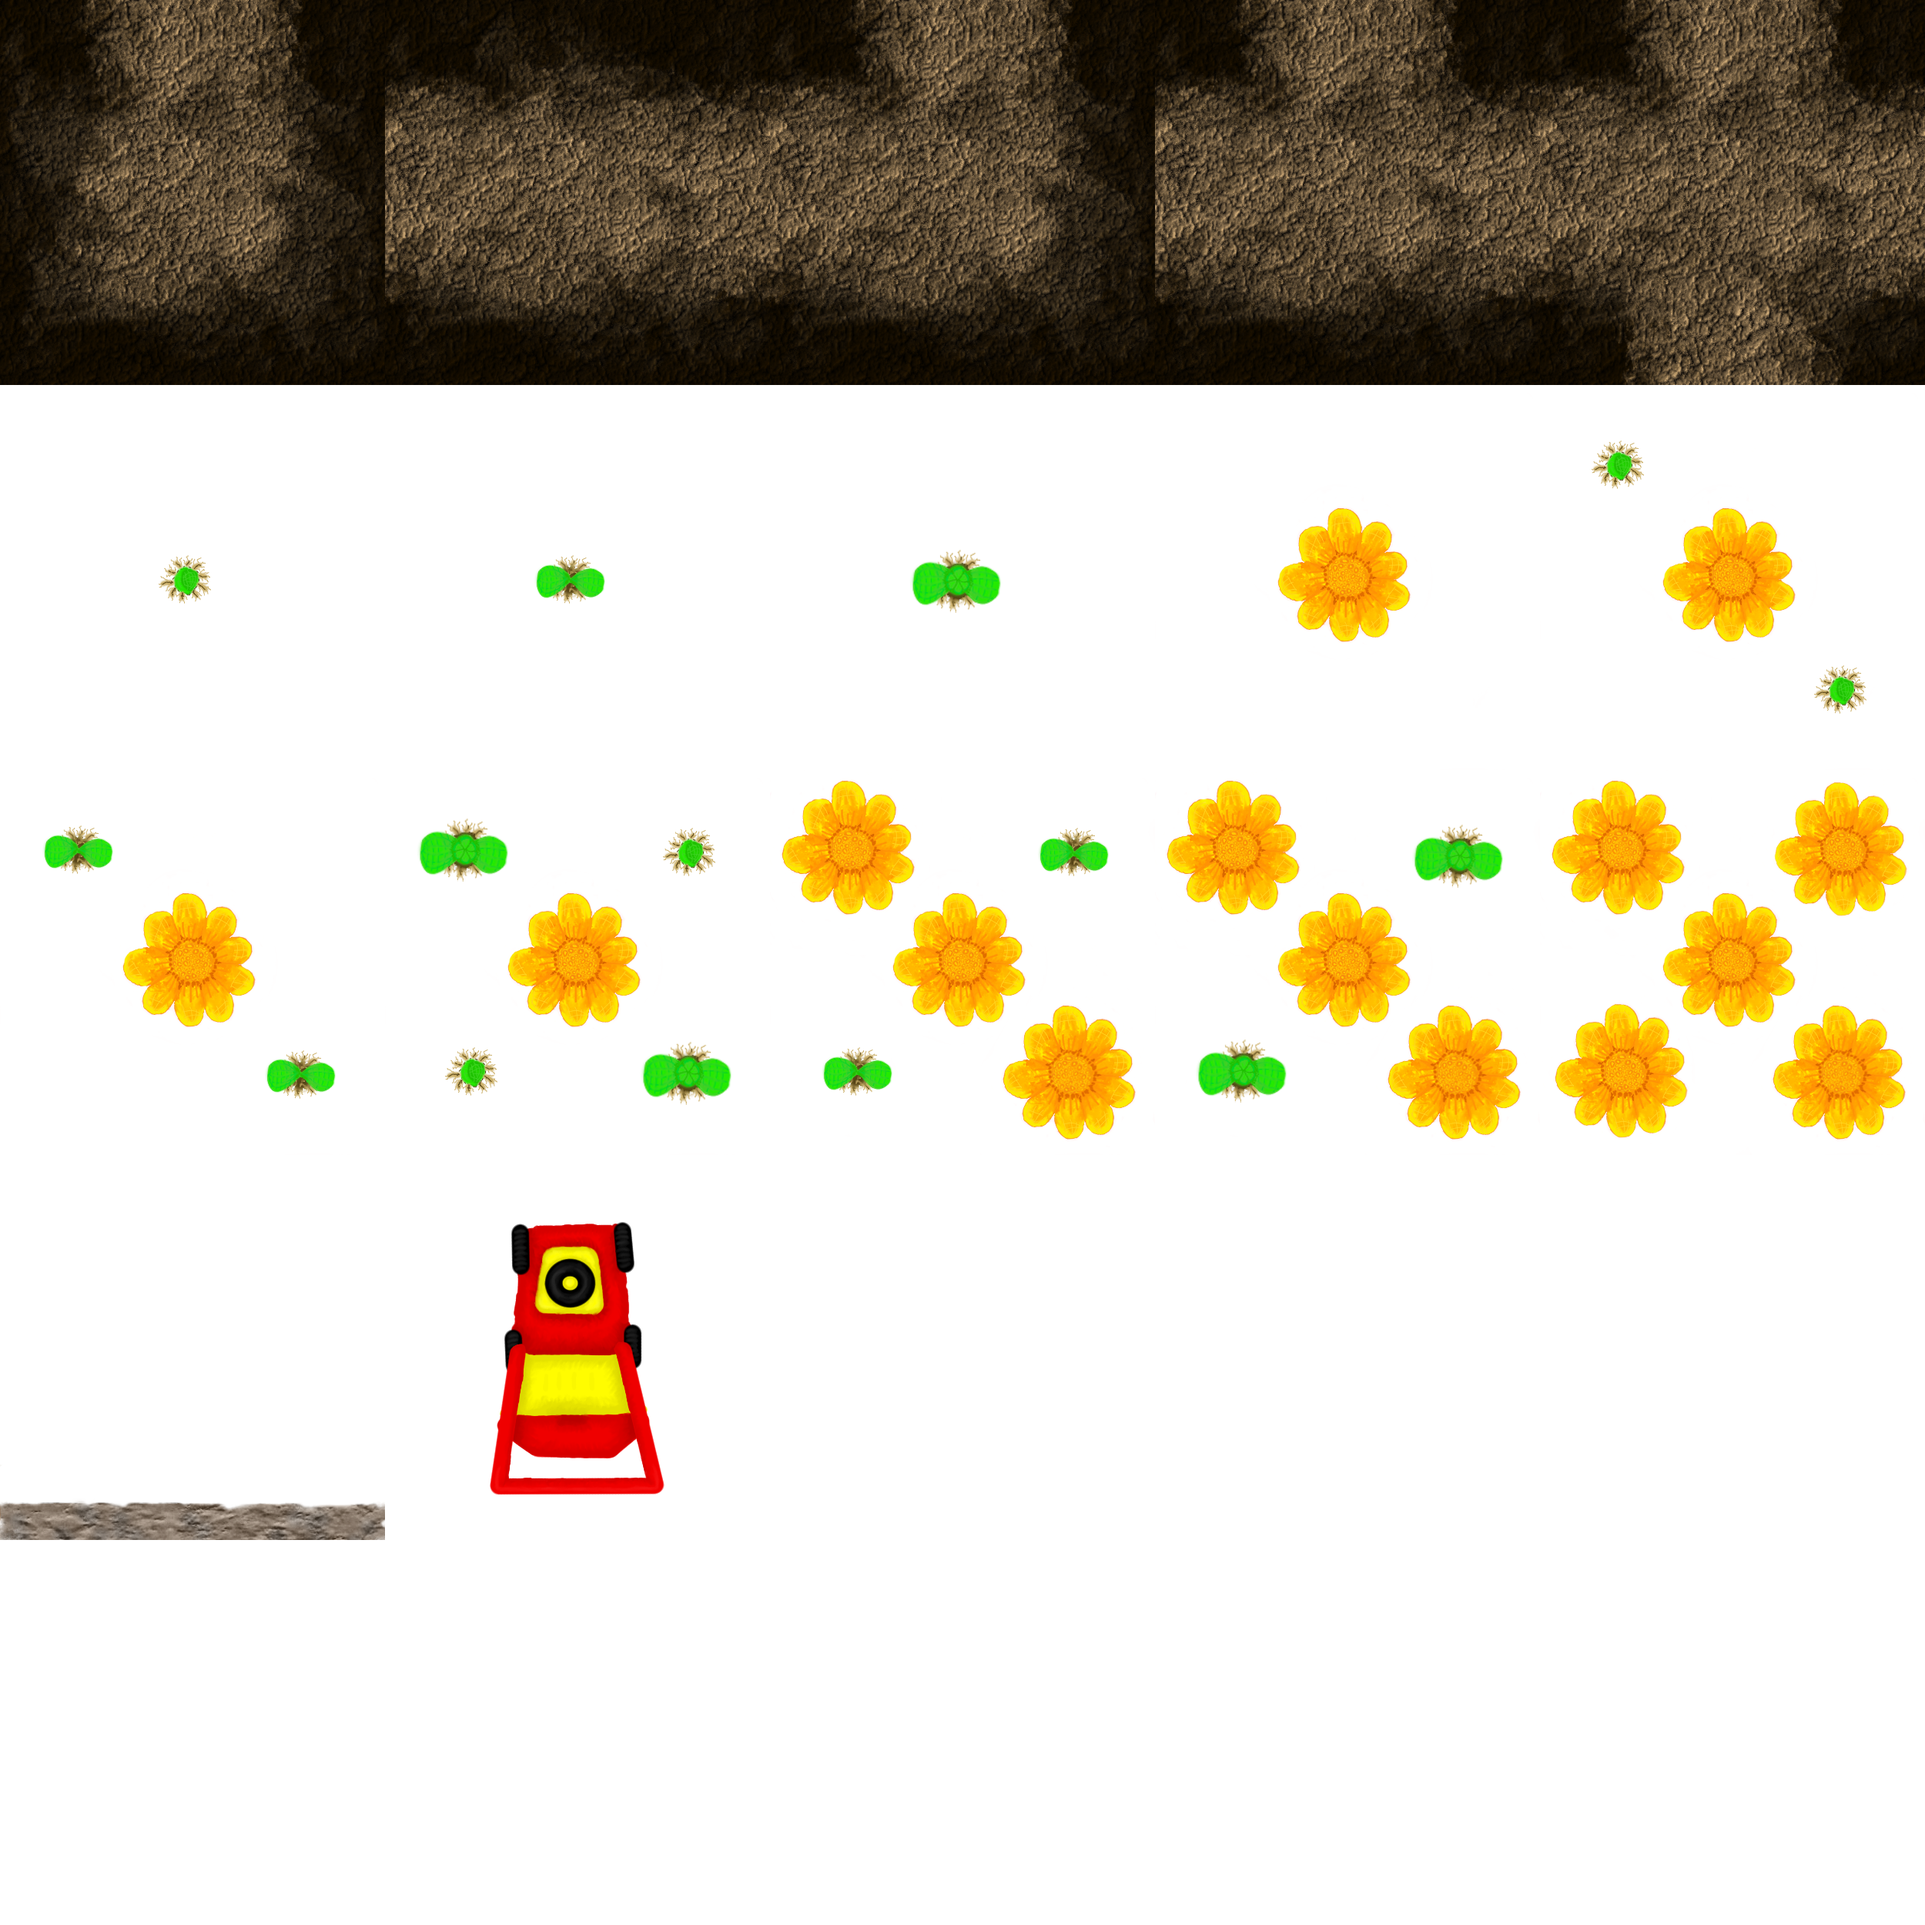
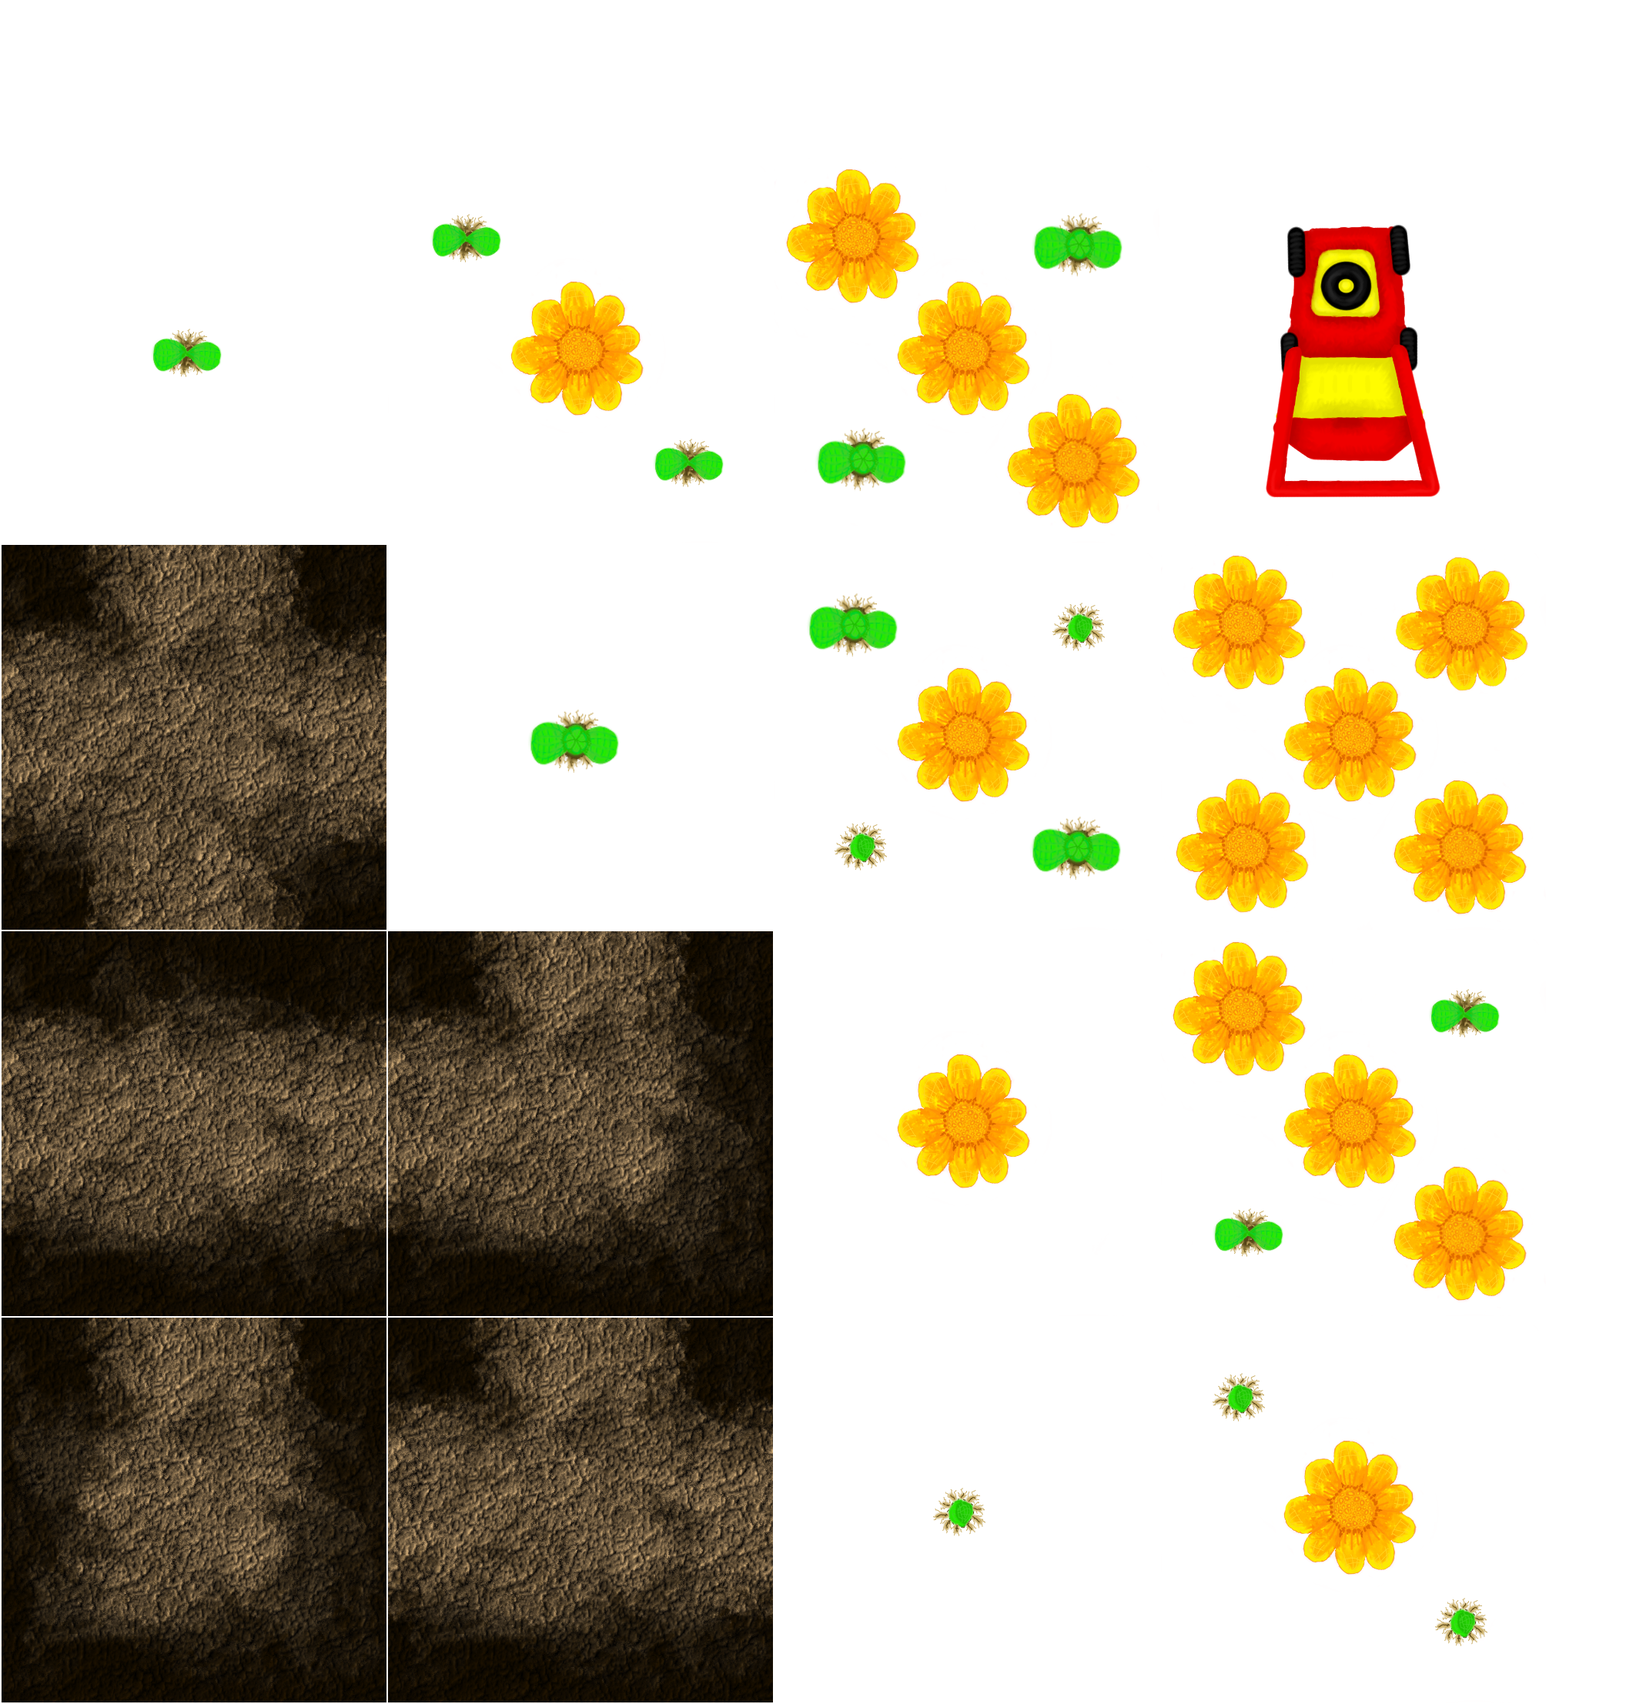
Einbau der neuen Texturen und vorübergehende Fehlerbehebung
git-svn-id: https://dev.se.uni-hannover.de/svn/shared/LV/swp1516/roboter-labyrinth2@311 8fccc7c9-0077-40ea-a901-f51b848cf750

diff --git a/Visualization/trunk/Visualization/src/de/unihannover/swp2015/robots2/visual/resource/ResourceHandler.java b/Visualization/trunk/Visualization/src/de/unihannover/swp2015/robots2/visual/resource/ResourceHandler.java
@@ -60,33 +60,62 @@ public class ResourceHandler implements IResourceHandler {
 	}
 	
 	private void createRegions() {
-		final TextureRegion someRegion = texAtlas.findRegion("simplistic_textures_map");
-		this.texMap.put(ResConst.DEFAULT_FIELD, someRegion);
+		final TextureRegion someRegion = texAtlas.findRegion("tiles_default_theme");
+		final TextureRegion noWay = texAtlas.findRegion("wall_test");
+		this.texMap.put(ResConst.DEFAULT_FIELD, noWay);
 		
-		final TextureRegion wallHRegion = texAtlas.findRegion("wall_h");
-		this.texMap.put(ResConst.DEFAULT_WALL_H, wallHRegion);
+		final TextureRegion wall = texAtlas.findRegion("wall_tiled");
+		this.texMap.put(ResConst.DEFAULT_WALL_H, wall);
+		this.texMap.put(ResConst.DEFAULT_WALL_V, wall);
 		
 		final TextureRegion wallVRegion = texAtlas.findRegion("wall_v");
-		this.texMap.put(ResConst.DEFAULT_WALL_V, wallVRegion);
 		this.texMap.put(ResConst.DEFAULT_BUBBLE, wallVRegion);
 		
-		final TextureRegion circle = texAtlas.findRegion("circle");
-		this.texMap.put(ResConst.DEFAULT_ROBO_EAST, circle);
-		this.texMap.put(ResConst.DEFAULT_ROBO_NORTH, circle);
-		this.texMap.put(ResConst.DEFAULT_ROBO_WEST, circle);
-		this.texMap.put(ResConst.DEFAULT_ROBO_SOUTH, circle);
-		this.texMap.put(ResConst.DEFAULT_RES_0, circle);
-		this.texMap.put(ResConst.DEFAULT_RES_1, circle);
-		this.texMap.put(ResConst.DEFAULT_RES_2, circle);
-		this.texMap.put(ResConst.DEFAULT_RES_3, circle);
-		this.texMap.put(ResConst.DEFAULT_RES_4, circle);
-		this.texMap.put(ResConst.DEFAULT_RES_5, circle);
-		this.texMap.put(ResConst.DEFAULT_RES_6, circle);
-		this.texMap.put(ResConst.DEFAULT_RES_7, circle);
-		this.texMap.put(ResConst.DEFAULT_RES_8, circle);
-		this.texMap.put(ResConst.DEFAULT_RES_9, circle);
-		this.texMap.put(ResConst.DEFAULT_RES_10, circle);
-		//TODO finish this
+		final TextureRegion food = texAtlas.findRegion("food");
+		this.texMap.put(ResConst.DEFAULT_RES_0, wallVRegion);
+		this.texMap.put(ResConst.DEFAULT_RES_1, food);
+		this.texMap.put(ResConst.DEFAULT_RES_2, food);
+		this.texMap.put(ResConst.DEFAULT_RES_3, food);
+		this.texMap.put(ResConst.DEFAULT_RES_4, food);
+		this.texMap.put(ResConst.DEFAULT_RES_5, food);
+		this.texMap.put(ResConst.DEFAULT_RES_6, food);
+		this.texMap.put(ResConst.DEFAULT_RES_7, food);
+		this.texMap.put(ResConst.DEFAULT_RES_8, food);
+		this.texMap.put(ResConst.DEFAULT_RES_9, food);
+		this.texMap.put(ResConst.DEFAULT_RES_10, food);
+		
+		final TextureRegion robo = texAtlas.findRegion("robo");
+		this.texMap.put(ResConst.DEFAULT_ROBO_EAST, robo);
+		this.texMap.put(ResConst.DEFAULT_ROBO_NORTH, robo);
+		this.texMap.put(ResConst.DEFAULT_ROBO_WEST, robo);
+		this.texMap.put(ResConst.DEFAULT_ROBO_SOUTH, robo);
+		
+		final TextureRegion way1 = texAtlas.findRegion("1_way_tile_tiled");
+		this.texMap.put(ResConst.DEFAULT_FIELD_1_N, way1);
+		this.texMap.put(ResConst.DEFAULT_FIELD_1_E, way1);
+		this.texMap.put(ResConst.DEFAULT_FIELD_1_S, way1);
+		this.texMap.put(ResConst.DEFAULT_FIELD_1_W, way1);
+		
+		final TextureRegion way2 = texAtlas.findRegion("2_way_WE_tile_tiled");
+		this.texMap.put(ResConst.DEFAULT_FIELD_2_N, way2);
+		this.texMap.put(ResConst.DEFAULT_FIELD_2_E, way2);
+		
+		final TextureRegion way3 = texAtlas.findRegion("3_way_tile_tiled");
+		this.texMap.put(ResConst.DEFAULT_FIELD_3_N, way3);
+		this.texMap.put(ResConst.DEFAULT_FIELD_3_E, way3);
+		this.texMap.put(ResConst.DEFAULT_FIELD_3_S, way3);
+		this.texMap.put(ResConst.DEFAULT_FIELD_3_W, way3);
+		
+		final TextureRegion way4 = texAtlas.findRegion("4_way_tile_tiled");
+		this.texMap.put(ResConst.DEFAULT_FIELD_4, way4);
+		
+		final TextureRegion wayC = texAtlas.findRegion("curve_tile_tiled");
+		this.texMap.put(ResConst.DEFAULT_FIELD_C_NE, wayC);
+		this.texMap.put(ResConst.DEFAULT_FIELD_C_ES, wayC);
+		this.texMap.put(ResConst.DEFAULT_FIELD_C_SW, wayC);
+		this.texMap.put(ResConst.DEFAULT_FIELD_C_WN, wayC);
+
+		//TODO rotate if needed
 	}
 
 	@Override

diff --git a/Visualization/trunk/Visualization/src/de/unihannover/swp2015/robots2/visual/Visualization.java b/Visualization/trunk/Visualization/src/de/unihannover/swp2015/robots2/visual/Visualization.java
@@ -54,7 +54,7 @@ public class Visualization extends ApplicationAdapter implements IVisualization 
 	 */
 	private Viewport fitViewport;
 	
-	private PostProcessor pp;
+	//private PostProcessor pp;
 	
 	/**
 	 * Constructs a Visualization object.
@@ -72,20 +72,20 @@ public class Visualization extends ApplicationAdapter implements IVisualization 
 		int appWidth = Gdx.graphics.getWidth();
 		int appHeight = Gdx.graphics.getHeight();
 		
-		ShaderLoader.BasePath = "resources/shaders/";
+		//ShaderLoader.BasePath = "resources/shaders/";
 		
 		this.prefs = new FlexPreferences("prefs");
 		this.cam = new OrthographicCamera();
 		this.cam.setToOrtho(true, appWidth, appHeight);
 		this.fitViewport = new FitViewport(appWidth, appHeight, cam);
-		this.pp = new PostProcessor(false, false, true);
-		this.pp.addEffect(new Fxaa(appWidth, appHeight));
-		this.pp.setViewport(new Rectangle(fitViewport.getScreenX(), fitViewport.getScreenY(), fitViewport.getScreenWidth(), fitViewport.getScreenHeight()));
+		//this.pp = new PostProcessor(false, false, true);
+		//this.pp.addEffect(new Fxaa(appWidth, appHeight));
+		//this.pp.setViewport(new Rectangle(fitViewport.getScreenX(), fitViewport.getScreenY(), fitViewport.getScreenWidth(), fitViewport.getScreenHeight()));
 		
 		final IResourceHandler resHandler = new ResourceHandler(ResConst.ATLAS_PATH.getName() + ResConst.ATLAS_NAME.getName() + ".atlas");
 		
 		//obv. just for testing
-		final IGame testGame = TestUtil.createRandomTestGame(2, 12, 9);
+		final IGame testGame = TestUtil.createRandomTestGame(2, 4, 3);
 		new TestApp(testGame);	
 		
 		// TODO create RobotGameHandler properly
@@ -102,7 +102,7 @@ public class Visualization extends ApplicationAdapter implements IVisualization 
 	@Override
 	public void render() {
 
-		pp.capture();
+		//pp.capture();
 
 		// sets the clear color to rgba(0, 0, 0, 1)
 		Gdx.gl.glClearColor(0.5f, 0.5f, 0.5f, 1);
@@ -117,7 +117,7 @@ public class Visualization extends ApplicationAdapter implements IVisualization 
 			gameHandlerList.get(i).render();
 		}
 		
-		pp.render();
+		//pp.render();
 		
 		System.out.println(Gdx.graphics.getFramesPerSecond());
 	}
@@ -125,7 +125,7 @@ public class Visualization extends ApplicationAdapter implements IVisualization 
 	@Override
 	public void resize(final int width, final int height) {
 		this.fitViewport.update(width, height, false);
-		this.pp.setViewport(new Rectangle(fitViewport.getScreenX(), fitViewport.getScreenY(), fitViewport.getScreenWidth(), fitViewport.getScreenHeight()));
+		//this.pp.setViewport(new Rectangle(fitViewport.getScreenX(), fitViewport.getScreenY(), fitViewport.getScreenWidth(), fitViewport.getScreenHeight()));
 		
 		for (int i = 0; i < gameHandlerList.size(); ++i) {
 			gameHandlerList.get(i).resize(width, height);

diff --git a/Visualization/trunk/Visualization/src/de/unihannover/swp2015/robots2/visual/entity/Field.java b/Visualization/trunk/Visualization/src/de/unihannover/swp2015/robots2/visual/entity/Field.java
@@ -24,7 +24,7 @@ public class Field extends Entity {
 	
 	private final IField model;
 	private final TextureRegion[] texWall;
-	private final TextureRegion field;
+	private final TextureRegion[] field;
 	
 	public Field(final IField model, final SpriteBatch renderer, final IGameHandler gameHandler, final IPreferences prefs, final IResourceHandler resHandler){
 		super(renderer, gameHandler, prefs, resHandler);
@@ -33,10 +33,14 @@ public class Field extends Entity {
 		this.model.observe(this);
 		
 		this.texWall = resHandler.getRegion(ResConst.DEFAULT_WALL_H, ResConst.DEFAULT_WALL_V); 
-		this.field = resHandler.getRegion(ResConst.DEFAULT_FIELD); 
+		this.field = resHandler.getRegion(ResConst.DEFAULT_FIELD, ResConst.DEFAULT_FIELD_1_N, ResConst.DEFAULT_FIELD_1_E, ResConst.DEFAULT_FIELD_1_S, ResConst.DEFAULT_FIELD_1_W,
+				ResConst.DEFAULT_FIELD_2_N, ResConst.DEFAULT_FIELD_2_E,
+				ResConst.DEFAULT_FIELD_3_N, ResConst.DEFAULT_FIELD_3_E, ResConst.DEFAULT_FIELD_3_S, ResConst.DEFAULT_FIELD_3_W,
+				ResConst.DEFAULT_FIELD_4,
+				ResConst.DEFAULT_FIELD_C_NE, ResConst.DEFAULT_FIELD_C_ES, ResConst.DEFAULT_FIELD_C_SW, ResConst.DEFAULT_FIELD_C_WN); 
 
-		final float fieldWidth = prefs.getFloat(PrefConst.FIELD_WIDTH_KEY, 10);
-		final float fieldHeight = prefs.getFloat(PrefConst.FIELD_HEIGHT_KEY, 10);
+		final float fieldWidth = prefs.getFloat(PrefConst.FIELD_WIDTH_KEY, 50);
+		final float fieldHeight = prefs.getFloat(PrefConst.FIELD_HEIGHT_KEY, 50);
 		
 		this.renderX = model.getX() * fieldWidth;
 		this.renderY = model.getY() * fieldHeight;
@@ -45,9 +49,9 @@ public class Field extends Entity {
 	@Override
 	public void render() {
 		
-		final float fieldWidth = prefs.getFloat(PrefConst.FIELD_WIDTH_KEY, 10);
-		final float fieldHeight = prefs.getFloat(PrefConst.FIELD_HEIGHT_KEY, 10);
-		final float wallThickness = prefs.getInt(PrefConst.WALL_THICK_KEY, 10);
+		final float fieldWidth = prefs.getFloat(PrefConst.FIELD_WIDTH_KEY, 50);
+		final float fieldHeight = prefs.getFloat(PrefConst.FIELD_HEIGHT_KEY, 50);
+		final float wallThickness = prefs.getInt(PrefConst.WALL_THICK_KEY, 50);
 
 		//TODO render field
 		if(model.isWall(IPosition.Orientation.NORTH))

diff --git a/Visualization/trunk/Visualization/src/de/unihannover/swp2015/robots2/visual/resource/ResConst.java b/Visualization/trunk/Visualization/src/de/unihannover/swp2015/robots2/visual/resource/ResConst.java
@@ -3,22 +3,37 @@ package de.unihannover.swp2015.robots2.visual.resource;
 public enum ResConst {
 	
 	ATLAS_PATH("assets/tex/"),
-	ATLAS_NAME("superTexture"),
+	ATLAS_NAME("tiles_default_theme"),
 	
 	DEFAULT_WALL_H("default_wall_v"),
 	DEFAULT_WALL_V("default_wall_v"),
 	DEFAULT_FIELD("default_field"),
-	DEFAULT_RES_0("default_res_0"),
-	DEFAULT_RES_1("default_res_0"),
-	DEFAULT_RES_2("default_res_0"),
-	DEFAULT_RES_3("default_res_0"),
-	DEFAULT_RES_4("default_res_0"),
-	DEFAULT_RES_5("default_res_0"),
-	DEFAULT_RES_6("default_res_0"),
-	DEFAULT_RES_7("default_res_0"),
-	DEFAULT_RES_8("default_res_0"),
-	DEFAULT_RES_9("default_res_0"),
-	DEFAULT_RES_10("default_res_0"),
+	DEFAULT_FIELD_1_N("default_field_1_n"),
+	DEFAULT_FIELD_1_E("default_field_1_e"),
+	DEFAULT_FIELD_1_S("default_field_1_s"),
+	DEFAULT_FIELD_1_W("default_field_1_w"),
+	DEFAULT_FIELD_2_N("default_field_2_n"),
+	DEFAULT_FIELD_2_E("default_field_2_e"),
+	DEFAULT_FIELD_3_N("default_field_3_n"),
+	DEFAULT_FIELD_3_E("default_field_3_e"),
+	DEFAULT_FIELD_3_S("default_field_3_s"),
+	DEFAULT_FIELD_3_W("default_field_3_w"),
+	DEFAULT_FIELD_4("default_field_4"),
+	DEFAULT_FIELD_C_NE("default_field_c_ne"),
+	DEFAULT_FIELD_C_ES("default_field_c_es"),
+	DEFAULT_FIELD_C_SW("default_field_c_sw"),
+	DEFAULT_FIELD_C_WN("default_field_c_wn"),
+	DEFAULT_RES_0("default_res_00"),
+	DEFAULT_RES_1("default_res_01"),
+	DEFAULT_RES_2("default_res_02"),
+	DEFAULT_RES_3("default_res_03"),
+	DEFAULT_RES_4("default_res_04"),
+	DEFAULT_RES_5("default_res_05"),
+	DEFAULT_RES_6("default_res_06"),
+	DEFAULT_RES_7("default_res_07"),
+	DEFAULT_RES_8("default_res_08"),
+	DEFAULT_RES_9("default_res_09"),
+	DEFAULT_RES_10("default_res_10"),
 	DEFAULT_ROBO_NORTH("default_robo_north"),
 	DEFAULT_ROBO_SOUTH("default_robo_south"),
 	DEFAULT_ROBO_WEST("default_robo_west"),

diff --git a/Visualization/trunk/Visualization/src/de/unihannover/swp2015/robots2/visual/entity/Resource.java b/Visualization/trunk/Visualization/src/de/unihannover/swp2015/robots2/visual/entity/Resource.java
@@ -35,8 +35,8 @@ public class Resource extends Entity {
 				ResConst.DEFAULT_RES_5, ResConst.DEFAULT_RES_6, ResConst.DEFAULT_RES_7,
 				ResConst.DEFAULT_RES_8, ResConst.DEFAULT_RES_9, ResConst.DEFAULT_RES_10);
 
-		final float fieldWidth = prefs.getFloat(PrefConst.FIELD_WIDTH_KEY, 10);
-		final float fieldHeight = prefs.getFloat(PrefConst.FIELD_HEIGHT_KEY, 10);
+		final float fieldWidth = prefs.getFloat(PrefConst.FIELD_WIDTH_KEY, 50);
+		final float fieldHeight = prefs.getFloat(PrefConst.FIELD_HEIGHT_KEY, 50);
 
 		this.renderX = model.getX() * fieldWidth;
 		this.renderY = model.getY() * fieldHeight;
@@ -48,8 +48,8 @@ public class Resource extends Entity {
 		if (model.getFood() == 0)
 			return;
 		
-		final float fieldWidth = prefs.getFloat(PrefConst.FIELD_WIDTH_KEY, 10);
-		final float fieldHeight = prefs.getFloat(PrefConst.FIELD_HEIGHT_KEY, 10);
+		final float fieldWidth = prefs.getFloat(PrefConst.FIELD_WIDTH_KEY, 50);
+		final float fieldHeight = prefs.getFloat(PrefConst.FIELD_HEIGHT_KEY, 50);
 		
 		batch.draw(tex[model.getFood()], renderX, renderY, fieldWidth/2, fieldHeight/2);
 	}

diff --git a/Visualization/trunk/Visualization/src/de/unihannover/swp2015/robots2/visual/desktop/DesktopLauncher.java b/Visualization/trunk/Visualization/src/de/unihannover/swp2015/robots2/visual/desktop/DesktopLauncher.java
@@ -13,8 +13,9 @@ public class DesktopLauncher {
 	public static void main (String[] arg) {
 
 		Settings packSettings = new Settings();
-		packSettings.maxWidth = 2048;
-		packSettings.maxHeight = 2048;
+		packSettings.maxWidth = 2500;
+		packSettings.maxHeight = 2500;
+		packSettings.pot = false;
 		TexturePacker.process(packSettings, "assets/tex", ResConst.ATLAS_PATH.getName(), ResConst.ATLAS_NAME.getName());
 		
 		LwjglApplicationConfiguration config = new LwjglApplicationConfiguration();

diff --git a/Visualization/trunk/Visualization/src/de/unihannover/swp2015/robots2/visual/entity/Map.java b/Visualization/trunk/Visualization/src/de/unihannover/swp2015/robots2/visual/entity/Map.java
@@ -58,8 +58,8 @@ public class Map extends Entity {
 	@Override
 	public void render() {
 		
-		final float fieldWidth = prefs.getFloat(PrefConst.FIELD_WIDTH_KEY, 10);
-		final float fieldHeight = prefs.getFloat(PrefConst.FIELD_HEIGHT_KEY, 10);
+		final float fieldWidth = prefs.getFloat(PrefConst.FIELD_WIDTH_KEY, 50);
+		final float fieldHeight = prefs.getFloat(PrefConst.FIELD_HEIGHT_KEY, 50);
 		
 		batch.end();
 		
